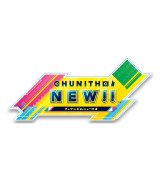
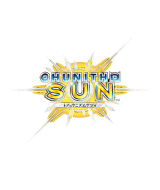
画像の入れ替えなど

diff --git a/pages/index.vue b/pages/index.vue
@@ -60,8 +60,8 @@
       <Skill src="javascript" title="JavaScript" lv="4" />
       <Skill src="vue" title="Vue.js" lv="4" />
       <Skill src="nuxt" title="Nuxt.js" lv="4" />
+      <Skill src="chunithm" title="チュウニズム SUN" lv="3" />
       <Skill src="ongeki" title="オンゲキ bright MEMORY" lv="3" />
-      <Skill src="chunithm" title="チュウニズム NEW" lv="3" />
       <Skill src="illustrator" title="Adobe Illustrator" lv="3" />
       <Skill src="indesign" title="Adobe InDesign" lv="3" />
       <Skill src="electron" title="Electron" lv="3" />
@@ -74,6 +74,26 @@
     <h2>外部制作実績</h2>
     <div class="works">
       <div class="wrapper">
+        <Work
+          src="IGC2022A"
+          date="2022年11月"
+          title="ICON Game Collection 2022 Autumn"
+          :type="[
+            { id: 'graphic', name: 'パッケージデザイン' },
+            { id: 'system', name: 'ゲーム制作' },
+          ]"
+          position="100%"
+        />
+        <Work
+          src="IGC2021A"
+          date="2021年11月"
+          title="ICON Game Collection 2021 Autumn"
+          :type="[
+            { id: 'graphic', name: 'パッケージデザイン' },
+            { id: 'system', name: 'ゲーム制作' },
+          ]"
+          position="85%"
+        />
         <Work
           src="202111"
           date="2021年11月"

diff --git a/components/Navi.vue b/components/Navi.vue
@@ -7,12 +7,12 @@
         src="hiragana_erase.png"
       />
       <NaviImage
-        href="https://arkw.net/products/win/LTTimer/"
-        src="lt_timer.png"
-      />
-      <NaviImage
         href="https://arkw.net/products/pc_game/qubefall/"
         src="qubefall.png"
+      />
+      <NaviImage
+        href="https://arkw.net/products/web/prohaya/"
+        src="prohaya.png"
       />
     </div>
   </div>

diff --git a/assets/sass/components/works.scss b/assets/sass/components/works.scss
@@ -36,6 +36,9 @@
           left: 15px;
           width: 95%;
           overflow: hidden;
+          font-family: "Noto Sans JP", "メイリオ", Meiryo, "ヒラギノ角ゴ Pro W3",
+            "Hiragino Kaku Gothic Pro", Osaka, "ＭＳ Ｐゴシック", "MS PGothic",
+            sans-serif;
           font-size: 18px;
           font-weight: normal;
           text-overflow: ellipsis;
